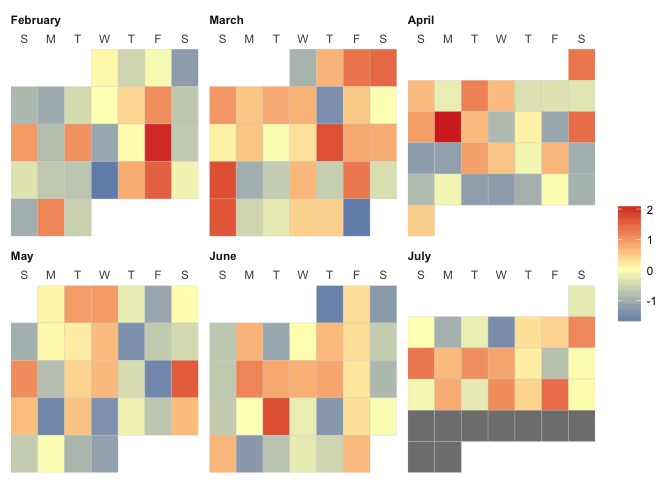
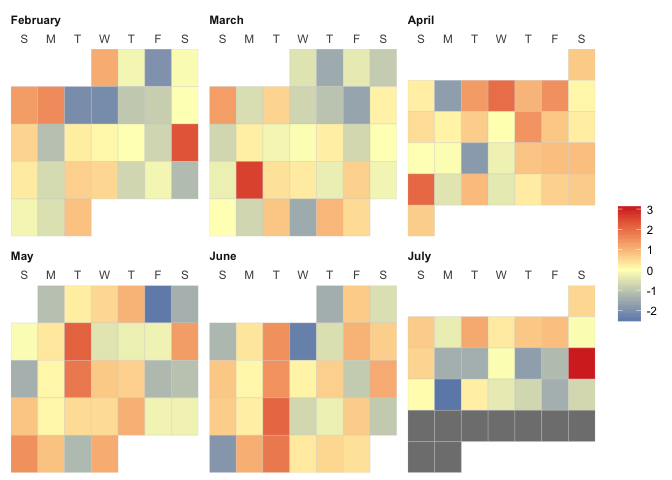
updated readme for multi-year plot

diff --git a/README.md b/README.md
@@ -59,3 +59,15 @@ ggcal(mydate, myfills) + scale_fill_manual(values=c("weekday"="steelblue", "week
 ```
 
 ![](README_files/figure-markdown_github/unnamed-chunk-5-1.png)
+
+This will also span multiple years...
+
+``` r
+mydate <- seq(as.Date("2016-09-01"), as.Date("2017-02-28"), by="1 day")
+myfills <- rnorm(length(mydate))
+
+ggcal(mydate, myfills) + 
+    scale_fill_gradient2(low="#4575b4", mid="#ffffbf", high="#d73027", midpoint=0)
+```
+
+![](README_files/figure-markdown_github/unnamed-chunk-6-1.png)
